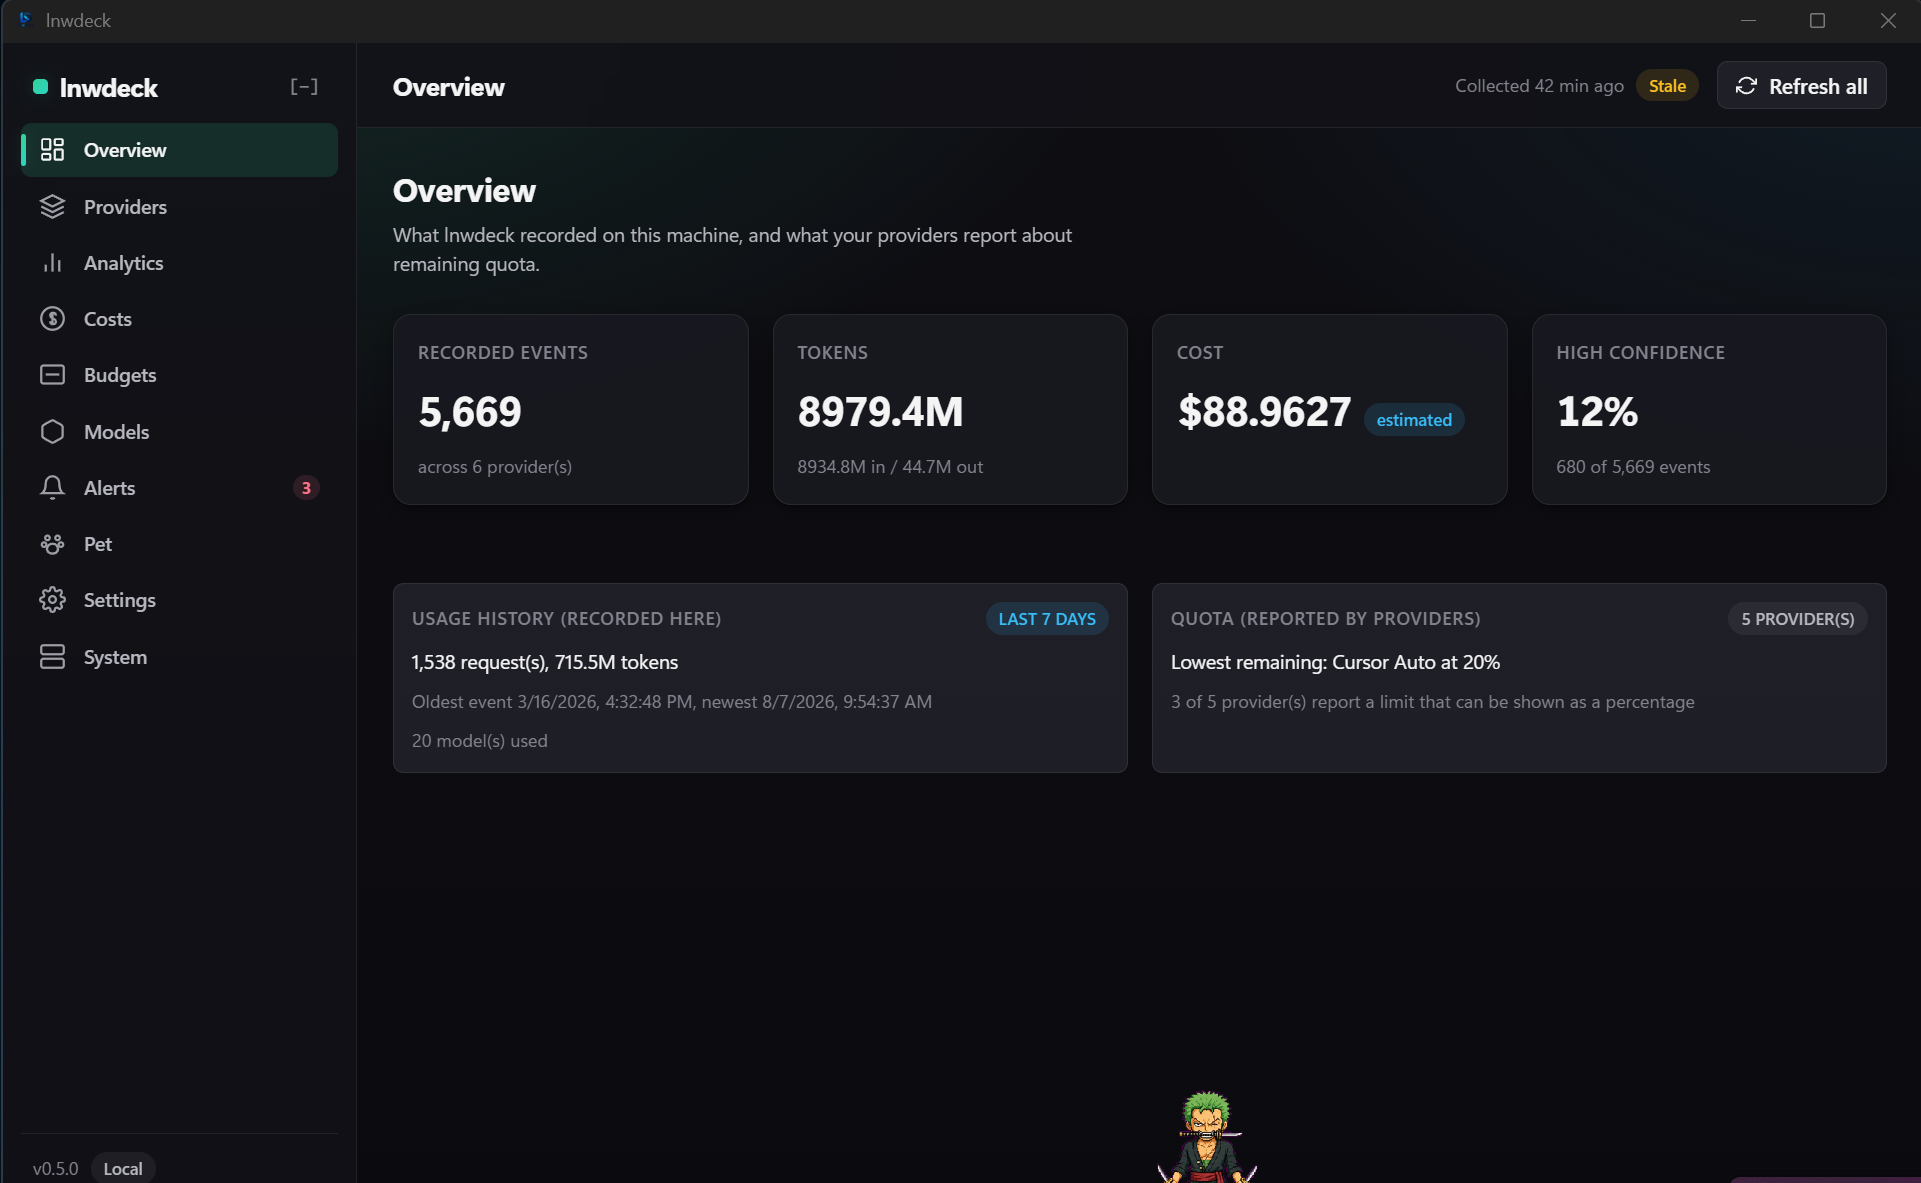
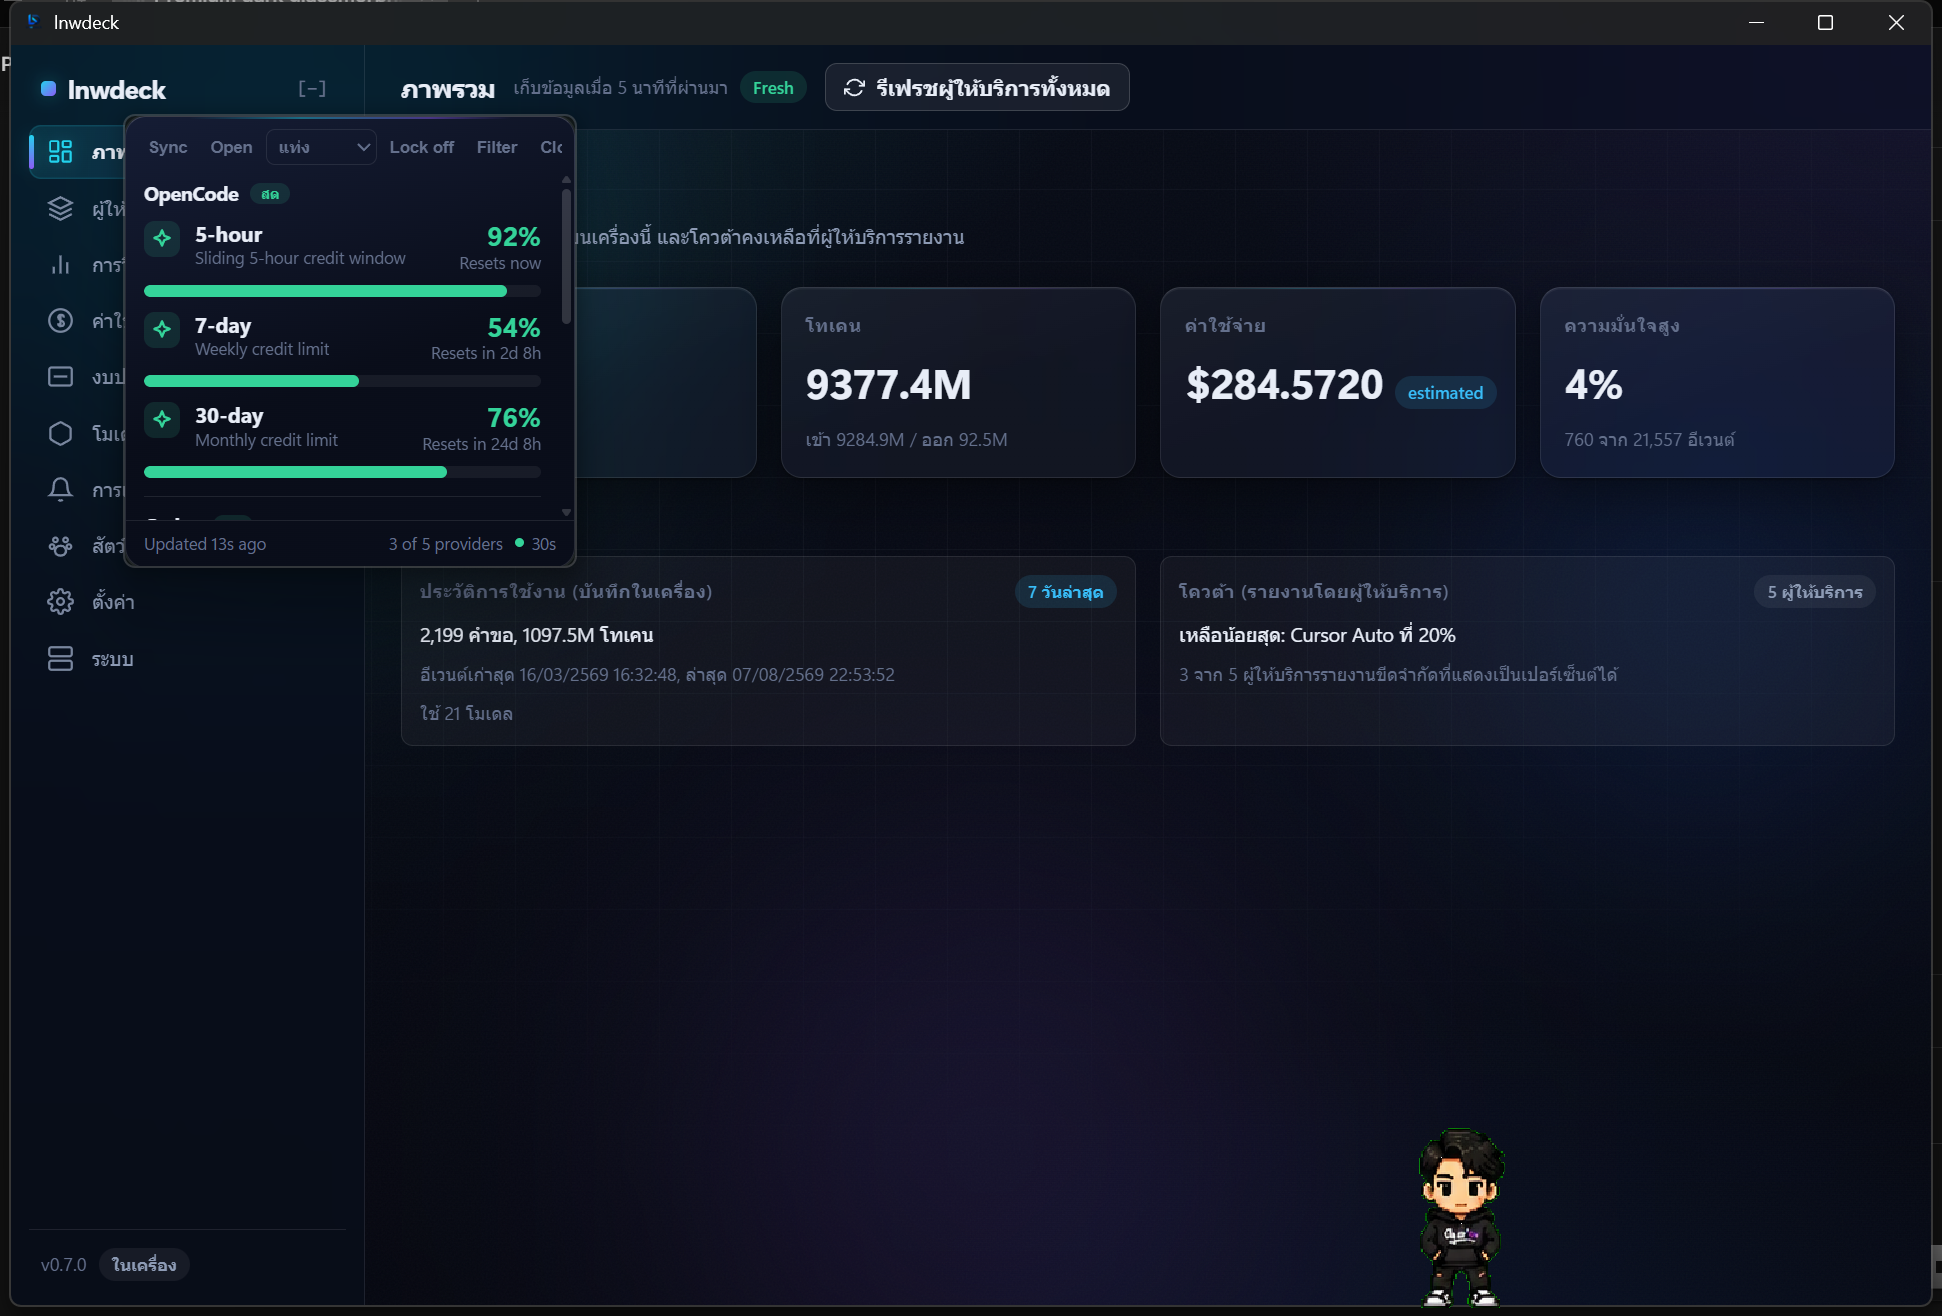
docs: README for the new design, per-arch portable builds, fresh screenshots
Screenshot table now includes Costs and the floating widget; the design
system section describes Premium Dark Futuristic Glassmorphism; the
release section documents the -Arch portable flag. Captures are from the
built v0.7.0 app with real local data.

diff --git a/README.md b/README.md
@@ -70,7 +70,9 @@ machine they were taken on.
 |---|---|
 | Overview | ![Overview](assets/screenshots/overview_dashboard.png) |
 | Providers | ![Providers](assets/screenshots/providers_page.png) |
+| Costs | ![Costs](assets/screenshots/costs_page.png) |
 | System diagnostics | ![System](assets/screenshots/system_diagnostics.png) |
+| Floating widget | ![Widget](assets/screenshots/floating_widget.png) |
 | Desktop pet | ![Pet](assets/screenshots/desktop_pet.png) |
 
 Recapture them with `pwsh ./scripts/capture_app_screenshots.ps1 -ShowWidget`
@@ -168,10 +170,13 @@ with seconds (e.g. `07/08/2569 15:45:32` in Thai).
 
 ## Design system
 
-The UI follows the "Carbon & Emeralds" design language documented in
-[docs/DESIGN.md](docs/DESIGN.md): layered zinc-neutrals on near-black carbon
-surfaces, a single emerald accent (never purple, never neon), and platform
-native typography. Dark is the default theme; light mirrors it faithfully.
+The UI follows the "Premium Dark Futuristic Glassmorphism" design language
+documented in [docs/DESIGN.md](docs/DESIGN.md): a near-black navy canvas
+(`#05070F`) lit by ambient cyan, blue and violet glows, frosted glass panels
+with thin glowing borders, a cyan → violet accent family, and an amber → red
+warm gradient reserved for primary CTAs. Dark is the default theme; light
+mirrors it faithfully. All motion animates only transform/opacity and is
+disabled under `prefers-reduced-motion`.
 
 ## Quickstart
 
@@ -204,11 +209,11 @@ $env:TAURI_SIGNING_PRIVATE_KEY = Get-Content keys/lnwdeck.key -Raw
 $env:TAURI_SIGNING_PRIVATE_KEY_PASSWORD = ""
 pnpm tauri:build
 
-# Portable archive
+# Portable archive (add -Arch x64|arm64|x86 when packaging a specific target)
 pwsh ./scripts/package-portable.ps1
 
 # Updater manifest from the built, signed artifacts
-node scripts/generate-updater-json.mjs v0.2.1 <assets-dir>
+node scripts/generate-updater-json.mjs v0.7.0 <assets-dir>
 ```
 
 The bundler writes `*-setup.exe` next to a `*.sig` signature. The updater
